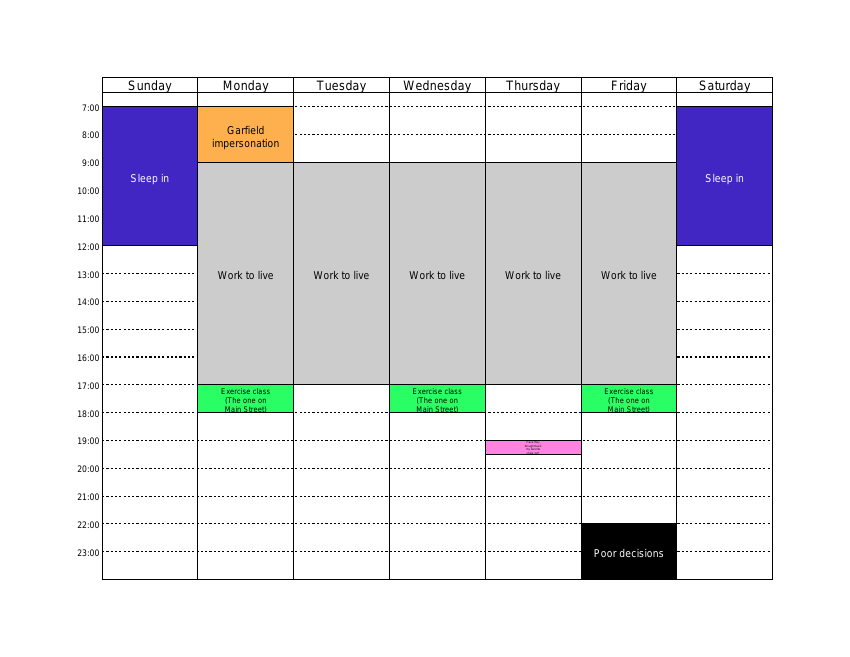
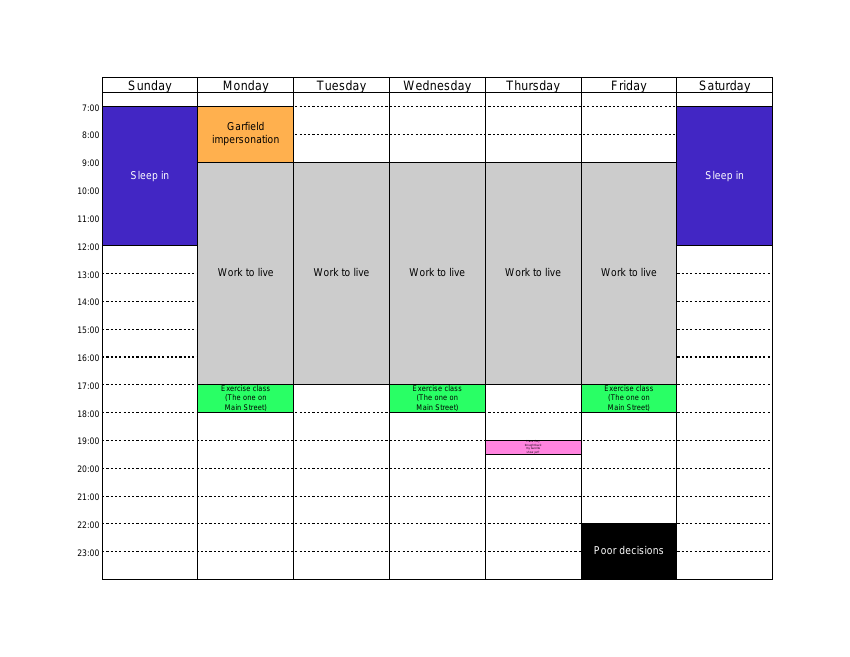
Adjusted vertical positioning of text

diff --git a/pdfschedule.py b/pdfschedule.py
@@ -6,7 +6,7 @@ Run ``pdfschedule --help`` or visit <https://github.com/jwodder/schedule> for
 more information.
 """
 
-__version__      = '0.3.0'
+__version__      = '0.4.0.dev1'
 __author__       = 'John Thorvald Wodder II'
 __author_email__ = 'pdfschedule@varonathe.org'
 __license__      = 'MIT'
@@ -197,7 +197,8 @@ class Schedule:
                     tmp_size = ebox.height / len(text) / 1.2
                     canvas.setFontSize(tmp_size)
                     line_height = tmp_size * 1.2
-                y = ebox.lry + ebox.height / 2 + len(text) * line_height / 2
+                y = ebox.lry + ebox.height / 2 + len(text) * line_height / 2 \
+                    + (tmp_size or font_size) / 3
                 for t in text:
                     y -= line_height
                     canvas.drawCentredString(ebox.ulx + day_width/2, y, t)

diff --git a/TODO.md b/TODO.md
@@ -10,8 +10,6 @@
 - Output tweaks:
     - Improve the color palette
     - Handle the day headers being too wide for their columns
-    - Fix "squeezing" of overly long text so that the last line doesn't touch
-      the bottom of the box
     - Handle textless entries
 
 - Command-line usage:

diff --git a/README.rst b/README.rst
@@ -156,4 +156,4 @@ The following input file::
 
 produces (using the default options) an output file that looks like this:
 
-.. image:: https://github.com/jwodder/schedule/raw/v0.3.0/examples/example01.png
+.. image:: https://github.com/jwodder/schedule/raw/master/examples/example01.png

diff --git a/CHANGELOG.md b/CHANGELOG.md
@@ -1,3 +1,8 @@
+v0.4.0 (in development)
+-----------------------
+- Adjusted the vertical positioning of text so that it no longer intersects the
+  bottom of the event box
+
 v0.3.0 (2019-05-09)
 -------------------
 - `--font` now accepts names of builtin fonts
